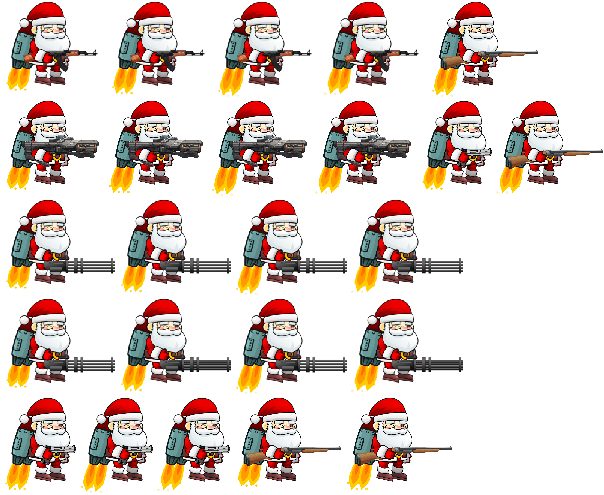
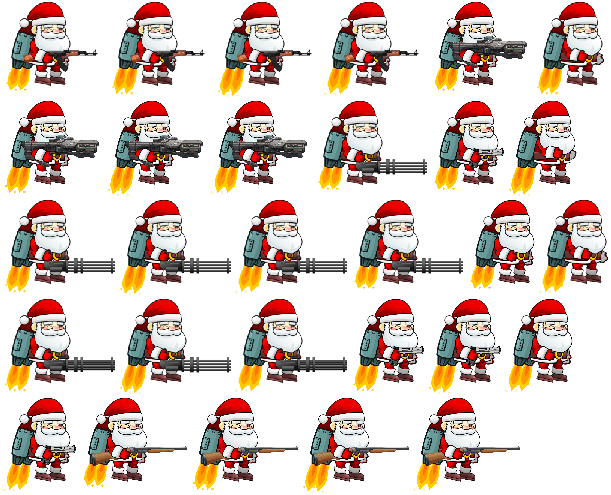
Animation hadoken à l'arrache

diff --git a/public/js/entities/santa.js b/public/js/entities/santa.js
@@ -17,13 +17,14 @@ game.SantaEntity = me.Entity.extend({
             "Santa_Fly_Minigun_0", "Santa_Fly_Minigun_1", "Santa_Fly_Minigun_2", "Santa_Fly_Minigun_3",
             "Santa_Fly_Minigun_Spinning_0", "Santa_Fly_Minigun_Spinning_1", "Santa_Fly_Minigun_Spinning_2", "Santa_Fly_Minigun_Spinning_3",
             "Santa_Fly_default_0", "Santa_Fly_default_1", "Santa_Fly_default_2", "Santa_Fly_default_3",
-            "Santa_Fly_shotgun_0", "Santa_Fly_shotgun_1", "Santa_Fly_shotgun_2", "Santa_Fly_shotgun_3"
+            "Santa_Fly_shotgun_0", "Santa_Fly_shotgun_1", "Santa_Fly_shotgun_2", "Santa_Fly_shotgun_3",
+            "Santa_Hadoken_0","Santa_Hadoken_1","Santa_Hadoken_2","Santa_Hadoken_3","Santa_Hadoken_4"
         ]);
 
         this.renderable.addAnimation ("default", ["Santa_Fly_default_0","Santa_Fly_default_1","Santa_Fly_default_2","Santa_Fly_default_3"]);
         this.renderable.addAnimation ("shotgun", ["Santa_Fly_shotgun_0", "Santa_Fly_shotgun_1", "Santa_Fly_shotgun_2", "Santa_Fly_shotgun_3"]);
         this.renderable.addAnimation ("ak", ["Santa_Fly_AK_0", "Santa_Fly_AK_1", "Santa_Fly_AK_2", "Santa_Fly_AK_3"]);
-        this.renderable.addAnimation ("hadoken", ["Santa_Fly_default_0","Santa_Fly_default_1","Santa_Fly_default_2","Santa_Fly_default_3"]);
+        this.renderable.addAnimation ("hadoken", ["Santa_Hadoken_0","Santa_Hadoken_1","Santa_Hadoken_2","Santa_Hadoken_3","Santa_Hadoken_4"]);
         this.renderable.addAnimation ("laser", ["Santa_Fly_Laser_0", "Santa_Fly_Laser_1", "Santa_Fly_Laser_2", "Santa_Fly_Laser_3"]);
         this.renderable.addAnimation ("minigun_off", ["Santa_Fly_Minigun_0", "Santa_Fly_Minigun_1", "Santa_Fly_Minigun_2", "Santa_Fly_Minigun_3"]);
         this.renderable.addAnimation ("minigun_on", ["Santa_Fly_Minigun_Spinning_0", "Santa_Fly_Minigun_Spinning_1", "Santa_Fly_Minigun_Spinning_2", "Santa_Fly_Minigun_Spinning_3"]);
